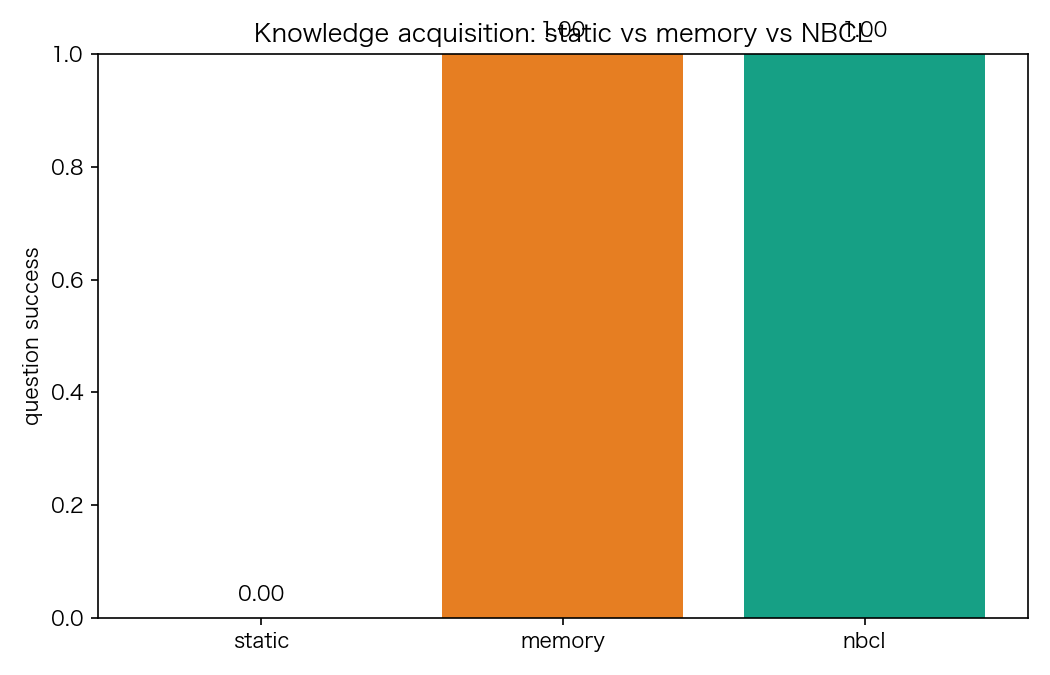
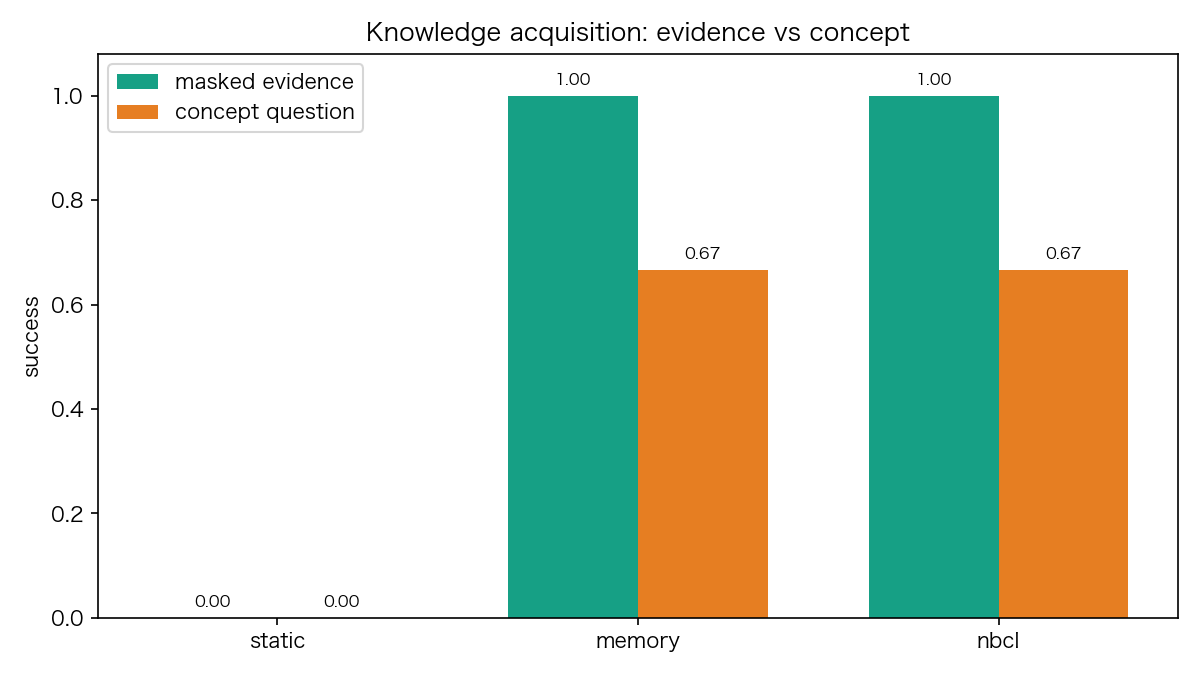
nbpw: clarify acquisition figure (masked vs concept)

diff --git a/nbpw/run_continual.py b/nbpw/run_continual.py
@@ -128,14 +128,22 @@ def main():
                    "sources": sum(len(v) for v in raw.values())}
     json.dump(res, open(os.path.join(HERE, "continual_results.json"), "w"), ensure_ascii=False, indent=1)
     # figures
-    fig, ax = plt.subplots(figsize=(7, 4.5), dpi=150)
+    import numpy as np
+    fig, ax = plt.subplots(figsize=(8, 4.5), dpi=150)
     names = ["static", "memory", "nbcl"]
-    ax.bar(names, [res[n]["success"] for n in names], color=["#95a5a6", "#e67e22", "#16a085"])
-    ax.set_ylim(0, 1); ax.set_ylabel("question success"); ax.set_title("Knowledge acquisition: static vs memory vs NBCL")
-    for i, n in enumerate(names): ax.text(i, res[n]["success"] + .03, f"{res[n]['success']:.2f}", ha="center")
-    fig.tight_layout(); fig.savefig(os.path.join(HERE, "figs", "learning_acquisition.png")); plt.close(fig)
+    masked = [res[n]["success"] for n in names]
+    concept = [res[n.replace("concept_", "")] if False else res["concept_" + n]["success"] for n in names]
+    x = np.arange(len(names)); w = .36
+    ax.bar(x - w/2, masked, w, label="masked evidence", color="#16a085")
+    ax.bar(x + w/2, concept, w, label="concept question", color="#e67e22")
+    ax.set_xticks(x); ax.set_xticklabels(names); ax.set_ylim(0, 1.08)
+    ax.set_ylabel("success"); ax.set_title("Knowledge acquisition: evidence vs concept")
+    for i, v in enumerate(masked): ax.text(i - w/2, v + .02, f"{v:.2f}", ha="center", fontsize=8)
+    for i, v in enumerate(concept): ax.text(i + w/2, v + .02, f"{v:.2f}", ha="center", fontsize=8)
+    ax.legend(); fig.tight_layout()
+    fig.savefig(os.path.join(HERE, "figs", "learning_acquisition.png")); plt.close(fig)
     fig, ax = plt.subplots(figsize=(6, 4.5), dpi=150)
-    ax.bar(["naive memory", "NBCL"], [res["belief"]["naive"], res["belief"]["nbcl"]], color=["#e67e22", "#16a085"])
+    ax.bar(["append-only", "NBCL"], [res["belief"]["naive"], res["belief"]["nbcl"]], color=["#e67e22", "#16a085"])
     ax.set_ylim(0, 1); ax.set_ylabel("correct active belief"); ax.set_title("Belief revision under contradiction")
     for i, v in enumerate([res["belief"]["naive"], res["belief"]["nbcl"]]): ax.text(i, v + .03, f"{v:.2f}", ha="center")
     fig.tight_layout(); fig.savefig(os.path.join(HERE, "figs", "belief_revision.png")); plt.close(fig)
